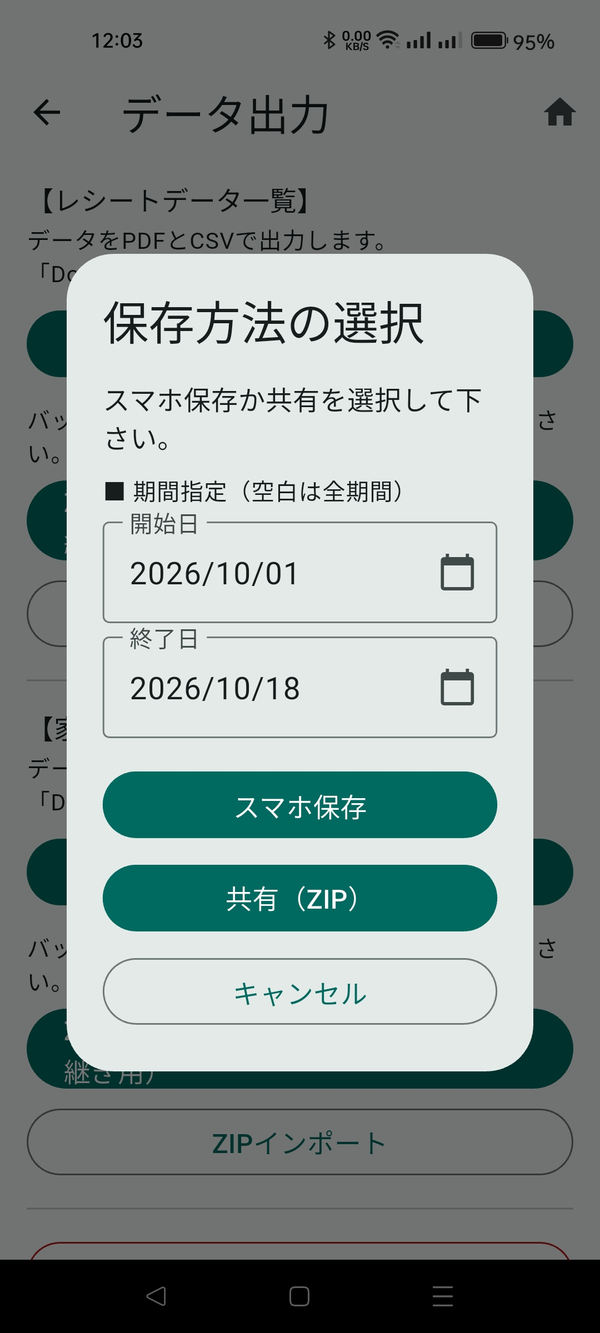
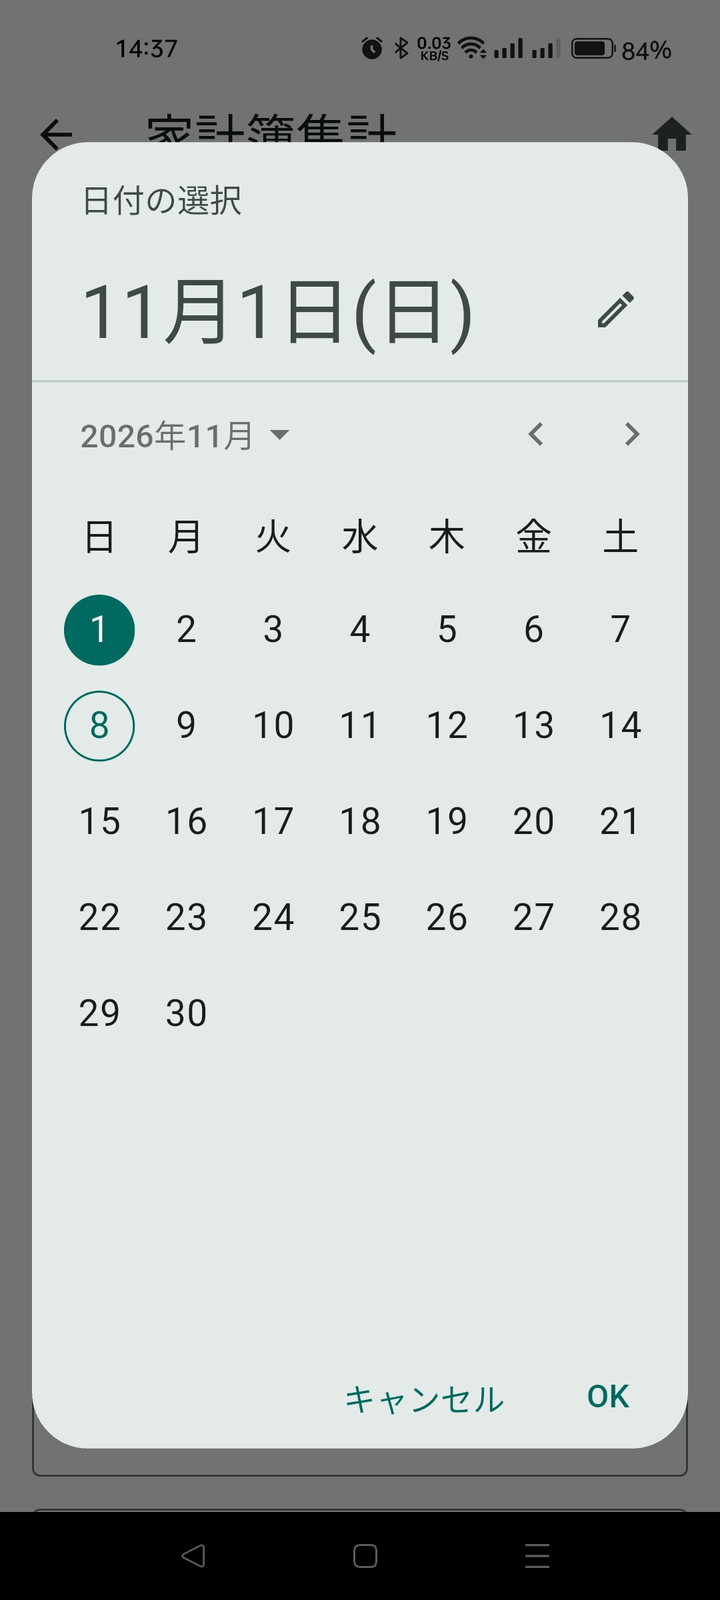
Add files via upload

diff --git a/guide.html b/guide.html
@@ -27,7 +27,7 @@
 <section class="band" id="intro"><div class="wrap">
 <h2 class="sec">■ はじめに</h2><p class="lead2">まずは、アプリの全体のつくりです。</p>
 <div class="gstep single"><div class="gtxt"><b>下の4つのタブで、機能を切り替える</b>下の4つのタブ（🛍買い物・📒家計簿・📍置き場所・🕊終活）で、使いたい機能に切り替えます。</div><div class="shots"><figure class="shot"><img src="images/s01_home_tabs.png" alt="ホーム画面（下の4つのタブが見える）" loading="lazy" onerror="this.hidden=true;this.nextElementSibling.hidden=false"><div class="ph" hidden><b>スクショ S01</b><span>ホーム画面（下の4つのタブが見える）</span><small>ファイル名：images/s01_home_tabs.png</small></div></figure></div></div>
-<div class="gstep single"><div class="gtxt"><b>使わないタブを隠す</b>使わないタブは、⚙設定の「表示するタブ」で隠せます。使い方のスライドは、⚙設定の「使い方をもう一度見る」から、いつでも見られます。</div><div class="shots"><figure class="shot"><img src="images/s02_settings_top.png" alt="設定画面（「表示するタブ」「使い方をもう一度見る」「操作方法」が見える）" loading="lazy" onerror="this.hidden=true;this.nextElementSibling.hidden=false"><div class="ph" hidden><b>スクショ S02</b><span>設定画面（「表示するタブ」「使い方をもう一度見る」「操作方法」が見える）</span><small>ファイル名：images/s02_settings_top.png</small></div></figure></div></div>
+<div class="gstep single"><div class="gtxt"><b>使わないタブを隠す</b>使わないタブは、⚙設定の「表示するタブ」で隠せます。使い方のスライドは、⚙設定の「アプリの概略」から、いつでも見られます。</div><div class="shots"><figure class="shot"><img src="images/s02_settings_top.png" alt="設定画面のヘルプの部分（「アプリの概略」「操作方法」などが見える）" loading="lazy" onerror="this.hidden=true;this.nextElementSibling.hidden=false"><div class="ph" hidden><b>スクショ S02</b><span>設定画面のヘルプの部分（「アプリの概略」「操作方法」などが見える）</span><small>ファイル名：images/s02_settings_top.png</small></div></figure></div></div>
 <div class="gstep single"><div class="gtxt"><b>バックアップを取る</b>データは、この端末の中に入っています。ときどき「保存」でバックアップを取って下さい。</div><div class="shots"><figure class="shot"><img src="images/s03_backup_menu.png" alt="保存（バックアップ）の画面" loading="lazy" onerror="this.hidden=true;this.nextElementSibling.hidden=false"><div class="ph" hidden><b>スクショ S03</b><span>保存（バックアップ）の画面</span><small>ファイル名：images/s03_backup_menu.png</small></div></figure></div></div>
 </div></section>
 <section class="band tint" id="shopping"><div class="wrap">
@@ -38,17 +38,20 @@
 <li><div class="gtxt"><b>品物を登録する</b>品物は、「✏写真なしで登録」か、📷カメラ・🖼ギャラリーで登録します。</div><div class="shots"><figure class="shot"><img src="images/s05_shopping_home.png" alt="買い物タブのホーム画面（登録のボタンと「買い物メモ作成」が見える）" loading="lazy" onerror="this.hidden=true;this.nextElementSibling.hidden=false"><div class="ph" hidden><b>スクショ S05</b><span>買い物タブのホーム画面（登録のボタンと「買い物メモ作成」が見える）</span><small>ファイル名：images/s05_shopping_home.png</small></div></figure></div></li>
 <li><div class="gtxt"><b>買い物メモ作成を押す</b>買い物の日は、ホームの「📝買い物メモ作成」を押します。最初に、「店舗あり（店舗ごと）」か「店舗なし（全店舗まとめ）」を選びます。ふだんは「店舗あり」です。</div><div class="shots"><figure class="shot"><img src="images/s41_memo_mode.png" alt="「買い物メモ作成」を押した画面（店舗あり／店舗なし（全店舗まとめ）の選択）" loading="lazy" onerror="this.hidden=true;this.nextElementSibling.hidden=false"><div class="ph" hidden><b>スクショ S41</b><span>「買い物メモ作成」を押した画面（店舗あり／店舗なし（全店舗まとめ）の選択）</span><small>ファイル名：images/s41_memo_mode.png</small></div></figure></div></li>
 <li><div class="gtxt"><b>お店を1つ選ぶ（店舗ありのとき）</b>「店舗を選択してください」と出るので、買い物に行くお店を1つ選びます。</div><div class="shots"><figure class="shot"><img src="images/s06_shop_select.png" alt="「店舗を選択してください」の画面" loading="lazy" onerror="this.hidden=true;this.nextElementSibling.hidden=false"><div class="ph" hidden><b>スクショ S06</b><span>「店舗を選択してください」の画面</span><small>ファイル名：images/s06_shop_select.png</small></div></figure></div></li>
-<li><div class="gtxt"><b>買う物に☑を付ける</b>そのお店の品物が並ぶので、買う物に☑を付けて「OK」を押します（「全選択」「全解除」も使えます）。</div><div class="shots"><figure class="shot"><img src="images/s07_item_select.png" alt="品物を選ぶ画面（☑・全選択・全解除・OK が見える）" loading="lazy" onerror="this.hidden=true;this.nextElementSibling.hidden=false"><div class="ph" hidden><b>スクショ S07</b><span>品物を選ぶ画面（☑・全選択・全解除・OK が見える）</span><small>ファイル名：images/s07_item_select.png</small></div></figure></div></li>
+<li><div class="gtxt"><b>買う物に☑を付ける</b>そのお店の品物が並ぶので、買う物に☑を付けて「OK」を押します（「全選択」「全解除」も使えます）。上の検索窓で品物を探したり、カテゴリーの名前を押して、そのカテゴリーだけに絞ったりもできます。「選択〇件／全〇件」で、☑の数が分かります。</div><div class="shots"><figure class="shot"><img src="images/s07_item_select.png" alt="品物を選ぶ画面（☑・全選択・全解除・OK が見える）" loading="lazy" onerror="this.hidden=true;this.nextElementSibling.hidden=false"><div class="ph" hidden><b>スクショ S07</b><span>品物を選ぶ画面（☑・全選択・全解除・OK が見える）</span><small>ファイル名：images/s07_item_select.png</small></div></figure></div></li>
 <li><div class="gtxt"><b>追加メモを書く（任意）</b>品物を選ぶ画面の下の「追加メモ」で、そのお店の追加メモも書けます（店舗なしのときは「店舗なし追加メモ」）。書いたあと、「OK」を押すと、買い物メモに載ります。☑が1つもなくても、メモだけで「OK」を押せます（メモだけの買い物メモができます）。入力の画面で「キャンセル」を押したり、画面の外を押したりすると、書いたメモは使われません。</div><div class="shots"><figure class="shot"><img src="images/s49_checklist_memo.png" alt="品物を選ぶ画面の「追加メモ」を押した画面（入力欄と「キャンセル」「OK」）" loading="lazy" onerror="this.hidden=true;this.nextElementSibling.hidden=false"><div class="ph" hidden><b>スクショ S49</b><span>品物を選ぶ画面の「追加メモ」を押した画面（入力欄と「キャンセル」「OK」）</span><small>ファイル名：images/s49_checklist_memo.png</small></div></figure></div></li>
-<li><div class="gtxt"><b>今日の買い物メモができる</b>今日の買い物メモが出来ます。品物は、はじめ「カテゴリーの順（売り場の順）→50音順」に並びます（カテゴリーは、下の「カテゴリーで売り場の順に整える」で決めます）。買った物は、右になぞって線で消します（左になぞると戻ります）。</div><div class="shots"><figure class="shot"><img src="images/s08_memo_checked.png" alt="今日の買い物メモ（何個かを線で消した状態）" loading="lazy" onerror="this.hidden=true;this.nextElementSibling.hidden=false"><div class="ph" hidden><b>スクショ S08</b><span>今日の買い物メモ（何個かを線で消した状態）</span><small>ファイル名：images/s08_memo_checked.png</small></div></figure></div></li>
+<li><div class="gtxt"><b>今日の買い物メモができる</b>今日の買い物メモが出来ます。品物は、はじめ「カテゴリーの順（売り場の順）→50音順」に並びます（カテゴリーは、下の「カテゴリーで売り場の順に整える」で決めます）。買った物は、右になぞって線で消します（左になぞると戻ります）。メモの右上の「取消し解除」を押すと、そのお店の線がすべて元に戻ります（線を引いた追加メモの行は、メモから消えます）。</div><div class="shots"><figure class="shot"><img src="images/s08_memo_checked.png" alt="今日の買い物メモ（何個かを線で消した状態）" loading="lazy" onerror="this.hidden=true;this.nextElementSibling.hidden=false"><div class="ph" hidden><b>スクショ S08</b><span>今日の買い物メモ（何個かを線で消した状態）</span><small>ファイル名：images/s08_memo_checked.png</small></div></figure></div></li>
 <li><div class="gtxt"><b>（店舗なしのとき）全店舗をまとめたメモを作る</b>「買い物メモ作成」で「店舗なし（全店舗まとめ）」を選ぶと、全部のお店の品物が1つの一覧に並びます。同じ品名は1つにまとまり、店舗名は出ません。買う物に☑を付けてOKを押すと、カテゴリーの順に並んだ1枚のメモができます。品物が1つもないときは「データがありません」と出ます。</div><div class="shots"><figure class="shot"><img src="images/s42_nostore_select.png" alt="店舗なしのときの品物を選ぶ画面（同じ品名は1つにまとまっている）" loading="lazy" onerror="this.hidden=true;this.nextElementSibling.hidden=false"><div class="ph" hidden><b>スクショ S42</b><span>店舗なしのときの品物を選ぶ画面（同じ品名は1つにまとまっている）</span><small>ファイル名：images/s42_nostore_select.png</small></div></figure><figure class="shot"><img src="images/s43_nostore_memo.png" alt="店舗なし（全店舗まとめ）の買い物メモ" loading="lazy" onerror="this.hidden=true;this.nextElementSibling.hidden=false"><div class="ph" hidden><b>スクショ S43</b><span>店舗なし（全店舗まとめ）の買い物メモ</span><small>ファイル名：images/s43_nostore_memo.png</small></div></figure></div></li>
 <li><div class="gtxt"><b>売り場を回る順番に並べ替える</b>売り場を回る順番に、並べ替えます。品物の右はしの「≡」を押したまま、上や下へ動かします（ドラッグ＆ドロップ）。</div><div class="shots"><figure class="shot"><img src="images/s09_memo_drag.png" alt="品物の右はしの「≡」を動かしている画面" loading="lazy" onerror="this.hidden=true;this.nextElementSibling.hidden=false"><div class="ph" hidden><b>スクショ S09</b><span>品物の右はしの「≡」を動かしている画面</span><small>ファイル名：images/s09_memo_drag.png</small></div></figure></div></li>
 <li><div class="gtxt"><b>並び順を記憶する</b>並べ終わったら、右上の「⋮」を押して「並び順を記憶」を選びます。次からは、「⋮」の「並び順の呼出」で、何度でも同じ順番に戻せます（お店ごとに記憶します）。50音順に戻したいときは、「⋮」の「50音順に並び替え」、カテゴリーの順に戻したいときは「カテゴリー順」を選びます。</div><div class="shots"><figure class="shot"><img src="images/s10_memo_menu.png" alt="買い物メモ右上の「⋮」を押したメニュー" loading="lazy" onerror="this.hidden=true;this.nextElementSibling.hidden=false"><div class="ph" hidden><b>スクショ S10</b><span>買い物メモ右上の「⋮」を押したメニュー</span><small>ファイル名：images/s10_memo_menu.png</small></div></figure></div></li>
-<li><div class="gtxt"><b>メモを足す・保存する</b>「追加メモ」でメモを足したり（書き直したあとは、「OK」で保存、「キャンセル」で元のままです）、「保存」で文字のファイルを保存したりできます。追加メモは、新しく買い物メモを作り始めたときに消えます（店舗ありのときは、選んだお店のメモだけ。店舗なしのときは、すべてのメモ）。</div><div class="shots"><figure class="shot"><img src="images/s11_memo_bottom.png" alt="買い物メモ画面のいちばん下（追加メモ・保存・全部を取消し）" loading="lazy" onerror="this.hidden=true;this.nextElementSibling.hidden=false"><div class="ph" hidden><b>スクショ S11</b><span>買い物メモ画面のいちばん下（追加メモ・保存・全部を取消し）</span><small>ファイル名：images/s11_memo_bottom.png</small></div></figure></div></li>
-<li><div class="gtxt"><b>買い物が終わったら全部を取消し</b>買い物が終わったら、いちばん下の「全部を取消し」を押します。☑や線がすべて消えて、ホームに戻ります（記憶した並び順は消えません）。</div></li>
+<li><div class="gtxt"><b>メモを足す・保存する</b>「追加メモ」を押すと、お店ごとの欄と【共通メモ】の欄が出るので、メモを足せます（書き直したあとは、「OK」で保存、「キャンセル」で元のままです）。また、「保存」で文字のファイルを保存したりできます。追加メモは、新しく買い物メモを作り始めたときに消えます（店舗ありのときは、選んだお店のメモだけ。店舗なしのときは、すべてのメモ）。</div><div class="shots"><figure class="shot"><img src="images/s11_memo_bottom.png" alt="買い物メモ画面で「追加メモ」を押した画面（お店ごとの欄と共通メモの欄に書き足せます）" loading="lazy" onerror="this.hidden=true;this.nextElementSibling.hidden=false"><div class="ph" hidden><b>スクショ S11</b><span>買い物メモ画面で「追加メモ」を押した画面（お店ごとの欄と共通メモの欄に書き足せます）</span><small>ファイル名：images/s11_memo_bottom.png</small></div></figure></div></li>
+<li><div class="gtxt"><b>買い物が終わったら全部を取消し</b>買い物が終わったら、いちばん下の「全部を取消し」を押します。☑・線・追加メモがすべて消えて、ホームに戻ります（記憶した並び順は消えません）。</div></li>
+<li><div class="gtxt"><b>使わない品物をかくす（非表示リスト）</b>品物の詳細画面で「非表示」に☑を付けると、その品物は、ホームの一覧と買い物メモから隠れます（消えてはいません）。ホームの右上の「⋮」から「非表示リスト」を押すと、「①リスト表示」と「②リスト追加」が選べます。</div><div class="shots"><figure class="shot"><img src="images/s52_hidden_menu.png" alt="「非表示リスト」を押した画面（①リスト表示・②リスト追加）" loading="lazy" onerror="this.hidden=true;this.nextElementSibling.hidden=false"><div class="ph" hidden><b>スクショ S52</b><span>「非表示リスト」を押した画面（①リスト表示・②リスト追加）</span><small>ファイル名：images/s52_hidden_menu.png</small></div></figure></div></li>
+<li><div class="gtxt"><b>①リスト表示（隠した品物を見る・戻す）</b>隠した品物が、お店ごと、その中のカテゴリーごとに並びます（お店は50音順、カテゴリーはそのお店で登録した順です）。「店舗で絞る」「カテゴリーで絞る」で、見たいものだけに絞れます（複数選べます）。お店やカテゴリーの名前の行を押すと、閉じたり開いたりできます。☑を付けて「リストに戻す」を押すと、ホームの一覧に戻ります（10秒の間は「元に戻す」で取り消せます）。「保存」で、文字のファイルにもできます。</div><div class="shots"><figure class="shot"><img src="images/s53_hidden_list.png" alt="①リスト表示の画面（お店ごと・カテゴリーごとに並び、☑を付けて戻す）" loading="lazy" onerror="this.hidden=true;this.nextElementSibling.hidden=false"><div class="ph" hidden><b>スクショ S53</b><span>①リスト表示の画面（お店ごと・カテゴリーごとに並び、☑を付けて戻す）</span><small>ファイル名：images/s53_hidden_list.png</small></div></figure></div></li>
+<li><div class="gtxt"><b>②リスト追加（まとめて隠す・戻す）</b>お店を1つ選ぶと、そのお店の品物が全部並びます。☑を付けた品物が隠れ、☑を外した品物は元に戻ります。「◆カテゴリー名」の行を押すと、そのカテゴリーをまとめて切り替えられます。「OK」を押すと、まとめて反映します（「戻る」「キャンセル」では反映されません）。</div><div class="shots"><figure class="shot"><img src="images/s54_hidden_add.png" alt="②リスト追加の画面（☑を付けた品物が隠れる。「OK」でまとめて反映）" loading="lazy" onerror="this.hidden=true;this.nextElementSibling.hidden=false"><div class="ph" hidden><b>スクショ S54</b><span>②リスト追加の画面（☑を付けた品物が隠れる。「OK」でまとめて反映）</span><small>ファイル名：images/s54_hidden_add.png</small></div></figure></div></li>
 </ol>
 <h3 class="sub">あわせて知っておくと便利なこと</h3>
-<ul class="pts"><li>ホームの🛒アイコンを押すと「今日の買い物メモ」（「今日買う✓」の品物のメモ）が開けます。検索窓が空のときは、「店舗あり」か「店舗なし」を選びます。「店舗あり」では、メモに入れるお店に☑を付けます（複数のお店を選べます）。「今日買う✓」の品物が無くても、追加メモがあれば開けます。品物も追加メモも無いときは「データがありません」と出ます。</li><li>1つのお店だけ表示したいときは、ホームの検索窓にそのお店の名前を入れて、「🛒」アイコンを押します。</li><li>「並び順の記憶」と「カテゴリー」は、ZIPにも入ります。⚙設定の「データ出力」で「ZIPエクスポート（画像込み）」を行い、新しいスマホで「ZIPインポート」をすれば、並び順も引き継げます。</li><li>ホームの右上の「⋮」から、カテゴリーの設定、非表示にした品物の一覧、基本素材のインポート、「店舗名入りの画像をつける」を開けます。</li></ul>
+<ul class="pts"><li>ホームの🛒アイコンを押すと「今日の買い物メモ」（「今日買う✓」の品物のメモ）が開けます。検索窓が空のときは、「店舗あり」か「店舗なし」を選びます。「店舗あり」では、メモに入れるお店に☑を付けます（複数のお店を選べます）。「今日買う✓」の品物が無くても、追加メモがあれば開けます。品物も追加メモも無いときは「データがありません」と出ます。</li><li>1つのお店だけ表示したいときは、ホームの検索窓にそのお店の名前を入れて、「🛒」アイコンを押します。</li><li>「並び順の記憶」と「カテゴリー」は、ZIPにも入ります。⚙設定の「データ出力」で「ZIPエクスポート（画像込み）」を行い、新しいスマホで「ZIPインポート」をすれば、並び順も引き継げます。</li><li>ホームの右上の「⋮」から、カテゴリーの設定、非表示リスト（①リスト表示・②リスト追加）、基本素材のインポート、「店舗名入りの画像をつける」を開けます。</li></ul>
 <div class="shots"><figure class="shot"><img src="images/s48_cart_stores.png" alt="🛒を押して「店舗あり」を選んだときの、お店を選ぶ画面（複数選べます）" loading="lazy" onerror="this.hidden=true;this.nextElementSibling.hidden=false"><div class="ph" hidden><b>スクショ S48</b><span>🛒を押して「店舗あり」を選んだときの、お店を選ぶ画面（複数選べます）</span><small>ファイル名：images/s48_cart_stores.png</small></div></figure></div>
 <h3 class="sub">カテゴリーで売り場の順に整える</h3>
 <p class="lead2">品物を「果物・野菜・肉…」のように大まかに分けておくと、買い物メモの最初の並びが売り場の順になります。カテゴリーは、お店ごとに持てます（スーパーと薬局では、売り場が違うためです）。</p>
@@ -57,7 +60,7 @@
 <li><div class="gtxt"><b>売り場の順に並べ替える</b>カテゴリーの右はしの「≡」を押したまま、上や下へ動かします。右上の「⋮」で、50音順への並べ替えや、並び順の記憶・呼び出しもできます。</div><div class="shots"><figure class="shot"><img src="images/s44_category_arrange.png" alt="カテゴリーの並べ替えの画面（カテゴリー名だけが並ぶ）" loading="lazy" onerror="this.hidden=true;this.nextElementSibling.hidden=false"><div class="ph" hidden><b>スクショ S44</b><span>カテゴリーの並べ替えの画面（カテゴリー名だけが並ぶ）</span><small>ファイル名：images/s44_category_arrange.png</small></div></figure></div></li>
 <li><div class="gtxt"><b>カテゴリーを編集する</b>「カテゴリーを編集する」を押すと、カテゴリーの追加・名前の変更・削除ができます。薬や雑貨など、食品以外も自由に足せます。</div><div class="shots"><figure class="shot"><img src="images/s45_category_edit.png" alt="カテゴリーの編集の画面（追加・名前の変更・削除）" loading="lazy" onerror="this.hidden=true;this.nextElementSibling.hidden=false"><div class="ph" hidden><b>スクショ S45</b><span>カテゴリーの編集の画面（追加・名前の変更・削除）</span><small>ファイル名：images/s45_category_edit.png</small></div></figure></div></li>
 <li><div class="gtxt"><b>品物のカテゴリーを決める</b>編集の画面の「品物のカテゴリーを決める」で、品物に☑を付けて、まとめてカテゴリーを決められます。決めなくても使えます（「未分類」になり、いちばん下に並びます）。</div><div class="shots"><figure class="shot"><img src="images/s46_category_assign.png" alt="品物のカテゴリーを決める画面" loading="lazy" onerror="this.hidden=true;this.nextElementSibling.hidden=false"><div class="ph" hidden><b>スクショ S46</b><span>品物のカテゴリーを決める画面</span><small>ファイル名：images/s46_category_assign.png</small></div></figure></div></li>
-<li><div class="gtxt"><b>登録のときに選ぶ</b>品物を登録・編集する画面にも、「カテゴリー」を選ぶ欄があります（買い物のみ。お店の名前を入れると、そのお店のカテゴリーが出ます）。</div><div class="shots"><figure class="shot"><img src="images/s47_item_category.png" alt="品物の登録画面（カテゴリーを選ぶ欄）" loading="lazy" onerror="this.hidden=true;this.nextElementSibling.hidden=false"><div class="ph" hidden><b>スクショ S47</b><span>品物の登録画面（カテゴリーを選ぶ欄）</span><small>ファイル名：images/s47_item_category.png</small></div></figure></div></li>
+<li><div class="gtxt"><b>登録のときに選ぶ</b>品物を登録・編集する画面にも、「カテゴリー」を選ぶ欄があります（買い物のみ。お店の名前を入れると、そのお店のカテゴリーが出ます）。</div><div class="shots"><figure class="shot"><img src="images/s47_item_category.png" alt="品物の編集画面（カテゴリーを選ぶ欄）" loading="lazy" onerror="this.hidden=true;this.nextElementSibling.hidden=false"><div class="ph" hidden><b>スクショ S47</b><span>品物の編集画面（カテゴリーを選ぶ欄）</span><small>ファイル名：images/s47_item_category.png</small></div></figure></div></li>
 </ol>
 <ul class="pts"><li>お店の名前を一括編集で変えると、そのお店のカテゴリーの並びや、記憶した並び順も、新しい名前に引き継がれます。</li><li>ホームの検索窓に、カテゴリー名を入れて探すこともできます。</li></ul>
 <div class="shots"><figure class="shot"><img src="images/s12_home_menu.png" alt="ホーム右上の「⋮」を押したメニュー（買い物タブ。「カテゴリー」が見える）" loading="lazy" onerror="this.hidden=true;this.nextElementSibling.hidden=false"><div class="ph" hidden><b>スクショ S12</b><span>ホーム右上の「⋮」を押したメニュー（買い物タブ。「カテゴリー」が見える）</span><small>ファイル名：images/s12_home_menu.png</small></div></figure></div>
@@ -66,7 +69,7 @@
 <h2 class="sec">📒 家計簿</h2><p class="lead2">レシートの管理と、家計簿の記録・集計です。</p>
 <h3 class="sub">レシート管理</h3>
 <ul class="pts"><li>🧾 レシート登録：レシートを撮ると、AIが店名・品名・金額を読み取ります（先に、⚙設定でAIのキーを登録します）。手入力もできます。</li><li>📊 レシート集計・✏ レシート編集：期間を決めて集計したり、直したりします。</li></ul>
-<div class="shots"><figure class="shot"><img src="images/s13_kakeibo_top.png" alt="家計簿タブのトップ（今月の収支とメニュー）" loading="lazy" onerror="this.hidden=true;this.nextElementSibling.hidden=false"><div class="ph" hidden><b>スクショ S13</b><span>家計簿タブのトップ（今月の収支とメニュー）</span><small>ファイル名：images/s13_kakeibo_top.png</small></div></figure><figure class="shot"><img src="images/s14_receipt_import.png" alt="レシート登録の画面" loading="lazy" onerror="this.hidden=true;this.nextElementSibling.hidden=false"><div class="ph" hidden><b>スクショ S14</b><span>レシート登録の画面</span><small>ファイル名：images/s14_receipt_import.png</small></div></figure><figure class="shot"><img src="images/s15_receipt_aggregate.png" alt="レシート集計の画面" loading="lazy" onerror="this.hidden=true;this.nextElementSibling.hidden=false"><div class="ph" hidden><b>スクショ S15</b><span>レシート集計の画面</span><small>ファイル名：images/s15_receipt_aggregate.png</small></div></figure></div>
+<div class="shots"><figure class="shot"><img src="images/s13_kakeibo_top.png" alt="家計簿タブのトップ（今月の収支とメニュー）" loading="lazy" onerror="this.hidden=true;this.nextElementSibling.hidden=false"><div class="ph" hidden><b>スクショ S13</b><span>家計簿タブのトップ（今月の収支とメニュー）</span><small>ファイル名：images/s13_kakeibo_top.png</small></div></figure><figure class="shot"><img src="images/s14_receipt_import.png" alt="レシートを撮影している画面" loading="lazy" onerror="this.hidden=true;this.nextElementSibling.hidden=false"><div class="ph" hidden><b>スクショ S14</b><span>レシートを撮影している画面</span><small>ファイル名：images/s14_receipt_import.png</small></div></figure><figure class="shot"><img src="images/s15_receipt_aggregate.png" alt="レシート集計の画面" loading="lazy" onerror="this.hidden=true;this.nextElementSibling.hidden=false"><div class="ph" hidden><b>スクショ S15</b><span>レシート集計の画面</span><small>ファイル名：images/s15_receipt_aggregate.png</small></div></figure></div>
 <h3 class="sub">家計簿管理</h3>
 <ul class="pts"><li>📝 家計簿入力：支払先・日付・種別・金額を入れて、1件ずつ登録します。レシートから引き継ぐこともできます。</li><li>📈 家計簿集計・✏ 家計簿編集：集計や修正をします。</li></ul>
 <div class="shots"><figure class="shot"><img src="images/s16_kakeibo_input.png" alt="家計簿入力の画面" loading="lazy" onerror="this.hidden=true;this.nextElementSibling.hidden=false"><div class="ph" hidden><b>スクショ S16</b><span>家計簿入力の画面</span><small>ファイル名：images/s16_kakeibo_input.png</small></div></figure><figure class="shot"><img src="images/s17_kakeibo_aggregate.png" alt="家計簿集計の画面" loading="lazy" onerror="this.hidden=true;this.nextElementSibling.hidden=false"><div class="ph" hidden><b>スクショ S17</b><span>家計簿集計の画面</span><small>ファイル名：images/s17_kakeibo_aggregate.png</small></div></figure></div>
@@ -78,7 +81,7 @@
 <div class="shots"><figure class="shot"><img src="images/s21_choice_list.png" alt="「▼」を押して出た一覧（いちばん下に「この一覧を編集する」）" loading="lazy" onerror="this.hidden=true;this.nextElementSibling.hidden=false"><div class="ph" hidden><b>スクショ S21</b><span>「▼」を押して出た一覧（いちばん下に「この一覧を編集する」）</span><small>ファイル名：images/s21_choice_list.png</small></div></figure><figure class="shot"><img src="images/s22_choice_edit.png" alt="項目の編集画面（追加・削除・「≡」で順番を変える）" loading="lazy" onerror="this.hidden=true;this.nextElementSibling.hidden=false"><div class="ph" hidden><b>スクショ S22</b><span>項目の編集画面（追加・削除・「≡」で順番を変える）</span><small>ファイル名：images/s22_choice_edit.png</small></div></figure></div>
 <h3 class="sub">データ管理</h3>
 <ul class="pts"><li>💾 データ出力：家計簿タブで⚙設定を開き、「データ出力」を押します。家計簿・レシートを、CSVやPDFで保存・共有できます。</li><li>画面の上に、今月の支出の合計が出ます。右の「📅」を押すと、開始日と終了日を入れて、期間を指定できます（アプリを閉じると今月に戻ります）。</li></ul>
-<div class="shots"><figure class="shot"><img src="images/s23_period_dialog.png" alt="今月の収支の期間を決める画面（📅を押したとき）" loading="lazy" onerror="this.hidden=true;this.nextElementSibling.hidden=false"><div class="ph" hidden><b>スクショ S23</b><span>今月の収支の期間を決める画面（📅を押したとき）</span><small>ファイル名：images/s23_period_dialog.png</small></div></figure><figure class="shot"><img src="images/s24_kakeibo_export.png" alt="家計簿のデータ出力の画面" loading="lazy" onerror="this.hidden=true;this.nextElementSibling.hidden=false"><div class="ph" hidden><b>スクショ S24</b><span>家計簿のデータ出力の画面</span><small>ファイル名：images/s24_kakeibo_export.png</small></div></figure></div>
+<div class="shots"><figure class="shot"><img src="images/s23_period_dialog.png" alt="期間の開始日・終了日を、カレンダーで選ぶ画面" loading="lazy" onerror="this.hidden=true;this.nextElementSibling.hidden=false"><div class="ph" hidden><b>スクショ S23</b><span>期間の開始日・終了日を、カレンダーで選ぶ画面</span><small>ファイル名：images/s23_period_dialog.png</small></div></figure><figure class="shot"><img src="images/s24_kakeibo_export.png" alt="データ出力の画面（レシート・家計簿を、PDF／CSVやZIPで出力）" loading="lazy" onerror="this.hidden=true;this.nextElementSibling.hidden=false"><div class="ph" hidden><b>スクショ S24</b><span>データ出力の画面（レシート・家計簿を、PDF／CSVやZIPで出力）</span><small>ファイル名：images/s24_kakeibo_export.png</small></div></figure></div>
 </div></section>
 <section class="band tint" id="place"><div class="wrap">
 <h2 class="sec">📍 置き場所</h2><p class="lead2">しまい込んだ物の場所を、写真で記録します。</p>
@@ -91,7 +94,7 @@
 <section class="band" id="endoflife"><div class="wrap">
 <h2 class="sec">🕊 終活</h2><p class="lead2">大切な物や、家族に伝えたいことを記録します。</p>
 <p>入れる項目は、宛名・品名等・資産種別・伝言です。使い方は「置き場所」と同じです。</p>
-<div class="shots"><figure class="shot"><img src="images/s28_endoflife_edit.png" alt="終活タブの登録画面（宛名・品名等・資産種別・伝言）" loading="lazy" onerror="this.hidden=true;this.nextElementSibling.hidden=false"><div class="ph" hidden><b>スクショ S28</b><span>終活タブの登録画面（宛名・品名等・資産種別・伝言）</span><small>ファイル名：images/s28_endoflife_edit.png</small></div></figure></div>
+<div class="shots"><figure class="shot"><img src="images/s28_endoflife_edit.png" alt="終活の登録・編集画面（宛名・品名等・資産種別・伝言）" loading="lazy" onerror="this.hidden=true;this.nextElementSibling.hidden=false"><div class="ph" hidden><b>スクショ S28</b><span>終活の登録・編集画面（宛名・品名等・資産種別・伝言）</span><small>ファイル名：images/s28_endoflife_edit.png</small></div></figure></div>
 </div></section>
 <section class="band tint" id="register"><div class="wrap">
 <h2 class="sec">📷 新しく登録する流れ</h2><p class="lead2">置き場所・終活に、写真つきで登録する手順です。</p>
@@ -102,13 +105,13 @@
 <li><div class="gtxt"><b>各項目を入れて「完了」</b>各項目を入れて、「完了」で保存します。</div><div class="shots"><figure class="shot"><img src="images/s30_register_form.png" alt="登録の入力画面（名前・置き場所・部屋・メモ）" loading="lazy" onerror="this.hidden=true;this.nextElementSibling.hidden=false"><div class="ph" hidden><b>スクショ S30</b><span>登録の入力画面（名前・置き場所・部屋・メモ）</span><small>ファイル名：images/s30_register_form.png</small></div></figure></div></li>
 </ol>
 <h3 class="sub">あわせて知っておくと便利なこと</h3>
-<ul class="pts"><li>同じ内容がすでにあるときは、「重複データがあります」と出ます。</li><li>登録したあとでも、「編集」の「画像入換」で写真を変えられます。</li><li>動画で登録するときは、ホームの「🎬 動画で記録する」を押します（置き場所・終活のタブ）。録画のあと、各項目を入れて「完了」で保存します。</li></ul>
-<div class="shots"><figure class="shot"><img src="images/s31_duplicate.png" alt="「重複データがあります」と出た画面" loading="lazy" onerror="this.hidden=true;this.nextElementSibling.hidden=false"><div class="ph" hidden><b>スクショ S31</b><span>「重複データがあります」と出た画面</span><small>ファイル名：images/s31_duplicate.png</small></div></figure><figure class="shot"><img src="images/s32_image_replace.png" alt="編集画面の「画像入換」ボタン" loading="lazy" onerror="this.hidden=true;this.nextElementSibling.hidden=false"><div class="ph" hidden><b>スクショ S32</b><span>編集画面の「画像入換」ボタン</span><small>ファイル名：images/s32_image_replace.png</small></div></figure></div>
+<ul class="pts"><li>同じ内容がすでにあるときは、「重複データがあります」と出ます。</li><li>登録したあとでも、「編集」の「画像入替」で写真を変えられます。</li><li>動画で登録するときは、ホームの「🎬 動画で記録する」を押します（置き場所・終活のタブ）。録画のあと、各項目を入れて「完了」で保存します。</li></ul>
+<div class="shots"><figure class="shot"><img src="images/s31_duplicate.png" alt="「重複データがあります」と出た画面" loading="lazy" onerror="this.hidden=true;this.nextElementSibling.hidden=false"><div class="ph" hidden><b>スクショ S31</b><span>「重複データがあります」と出た画面</span><small>ファイル名：images/s31_duplicate.png</small></div></figure><figure class="shot"><img src="images/s32_image_replace.png" alt="「画像入替」を押した画面（カメラかギャラリーを選びます）" loading="lazy" onerror="this.hidden=true;this.nextElementSibling.hidden=false"><div class="ph" hidden><b>スクショ S32</b><span>「画像入替」を押した画面（カメラかギャラリーを選びます）</span><small>ファイル名：images/s32_image_replace.png</small></div></figure></div>
 </div></section>
 <section class="band" id="home"><div class="wrap">
 <h2 class="sec">🏠 ホーム画面の使い方</h2><p class="lead2">検索・並替・保存・削除・設定です。</p>
 <ul class="pts"><li>【検索】登録した言葉（買い物では、カテゴリー名も）や、登録日（04・2026・202604・20260412のような数字）で探せます。「コスモスORアルク」のように OR でつなぐと、複数の言葉を一度に探せます。</li><li>【並替】検索欄の右の「並替」で、並び順を変えられます。</li><li>【保存】スマホ保存か共有（ZIP）で、バックアップを取ります。</li><li>【削除】いらないデータを選んで、または全部まとめて削除します。</li><li>【⚙設定】右上の⚙から開きます。</li></ul>
-<div class="shots"><figure class="shot"><img src="images/s33_home_search.png" alt="検索欄に言葉を入れて探した画面（ORで2つの言葉）" loading="lazy" onerror="this.hidden=true;this.nextElementSibling.hidden=false"><div class="ph" hidden><b>スクショ S33</b><span>検索欄に言葉を入れて探した画面（ORで2つの言葉）</span><small>ファイル名：images/s33_home_search.png</small></div></figure><figure class="shot"><img src="images/s34_home_sort.png" alt="「並替」を押したときの画面" loading="lazy" onerror="this.hidden=true;this.nextElementSibling.hidden=false"><div class="ph" hidden><b>スクショ S34</b><span>「並替」を押したときの画面</span><small>ファイル名：images/s34_home_sort.png</small></div></figure><figure class="shot"><img src="images/s35_delete_menu.png" alt="削除の画面" loading="lazy" onerror="this.hidden=true;this.nextElementSibling.hidden=false"><div class="ph" hidden><b>スクショ S35</b><span>削除の画面</span><small>ファイル名：images/s35_delete_menu.png</small></div></figure></div>
+<div class="shots"><figure class="shot"><img src="images/s33_home_search.png" alt="検索欄に言葉を入れて探した画面（ORで2つの言葉）" loading="lazy" onerror="this.hidden=true;this.nextElementSibling.hidden=false"><div class="ph" hidden><b>スクショ S33</b><span>検索欄に言葉を入れて探した画面（ORで2つの言葉）</span><small>ファイル名：images/s33_home_search.png</small></div></figure><figure class="shot"><img src="images/s34_home_sort.png" alt="「並替」を押したときの画面" loading="lazy" onerror="this.hidden=true;this.nextElementSibling.hidden=false"><div class="ph" hidden><b>スクショ S34</b><span>「並替」を押したときの画面</span><small>ファイル名：images/s34_home_sort.png</small></div></figure><figure class="shot"><img src="images/s35_delete_menu.png" alt="完全削除の画面（検索して☑を付け、「実行」で削除）" loading="lazy" onerror="this.hidden=true;this.nextElementSibling.hidden=false"><div class="ph" hidden><b>スクショ S35</b><span>完全削除の画面（検索して☑を付け、「実行」で削除）</span><small>ファイル名：images/s35_delete_menu.png</small></div></figure></div>
 </div></section>
 <section class="band tint" id="detail"><div class="wrap">
 <h2 class="sec">📄 詳細画面</h2><p class="lead2">一覧から1件を開いた画面です。</p>

diff --git a/index.html b/index.html
@@ -38,7 +38,7 @@
   <section class="hero">
     <div>
       <h1><span>買い物メモと家計簿を、</span><span>ひとつのアプリで。</span></h1>
-      <p class="lead">よく行くお店の品物を並べて、買う物にチェックするだけで、今日の買い物メモができます。買ったら線で消して、あとから家計簿に残せます。</p>
+      <p class="lead">よく行くお店の品物を並べて、買う物にチェックするだけで、今日の買い物メモができます。買ったら、線で消せます。家計簿やレシートの記録も、同じアプリでできます。</p>
       <ul class="facts">
         <li>無料</li>
         <li>登録は不要</li>
@@ -99,6 +99,7 @@
           <li>63品目の基本素材（品物の絵）が入っているので、写真を撮らなくても始められます。行きつけのお店が複数あっても、まとめて登録できます。</li>
           <li>基本素材は、画像なしで（品名とカテゴリーだけで）登録することもできます。あとから、店舗名を書き込んだ画像をつけることもできます。</li>
           <li>品物を選ぶ画面でも「追加メモ」を書けて、メモだけの買い物メモも作れます。</li>
+          <li>使わない品物は「非表示」で隠せます。隠した品物は、お店ごと・カテゴリーごとの一覧で見たり、まとめて戻したりできます。</li>
         </ul>
       </div>
     </div>
@@ -159,7 +160,7 @@
     <div class="row">
       <h3>データの置き場所</h3>
       <div>
-        <p>登録した内容は、あなたのスマホの中に入ります。アカウントの登録は要らず、開発者のサーバーには送りません。機種変更のときは、ZIPで書き出して、新しいスマホで読み込めます。ときどき「保存」でバックアップを取っておくと安心です。</p>
+        <p>登録した内容は、あなたのスマホの中に入ります。アカウントの登録は要らず、開発者のサーバーには送りません（レシートのAI読み取りを使うときだけ、読み取りのために、画像があなたのAIサービスに送られます）。機種変更のときは、ZIPで書き出して、新しいスマホで読み込めます。ときどき「保存」でバックアップを取っておくと安心です。</p>
       </div>
     </div>
     <div class="row">
